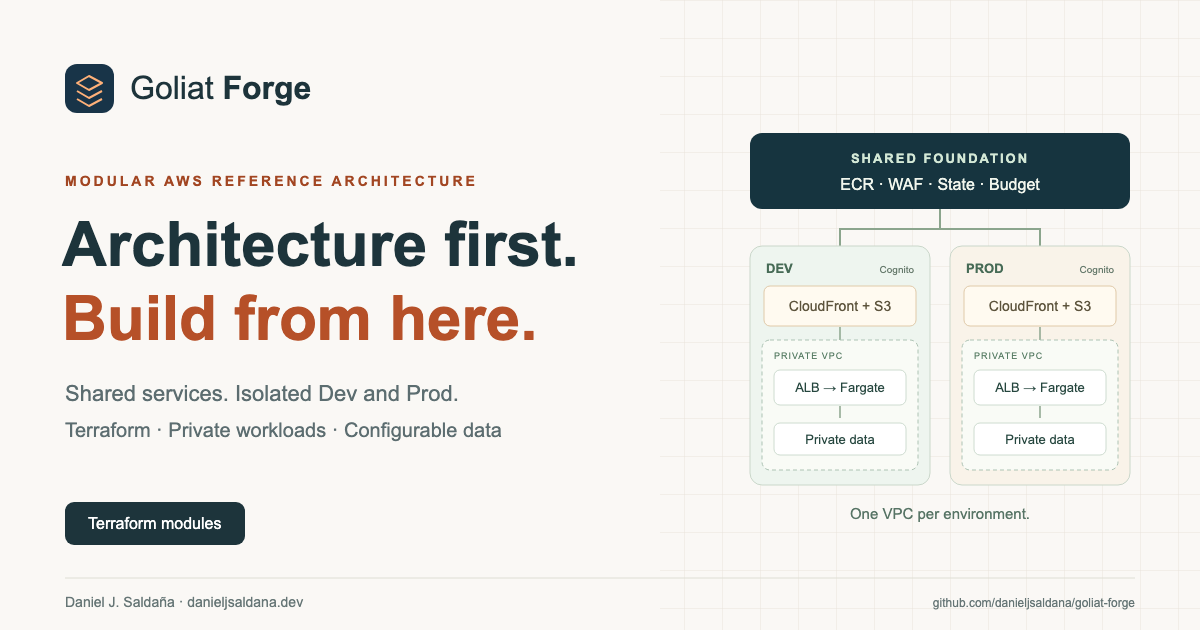
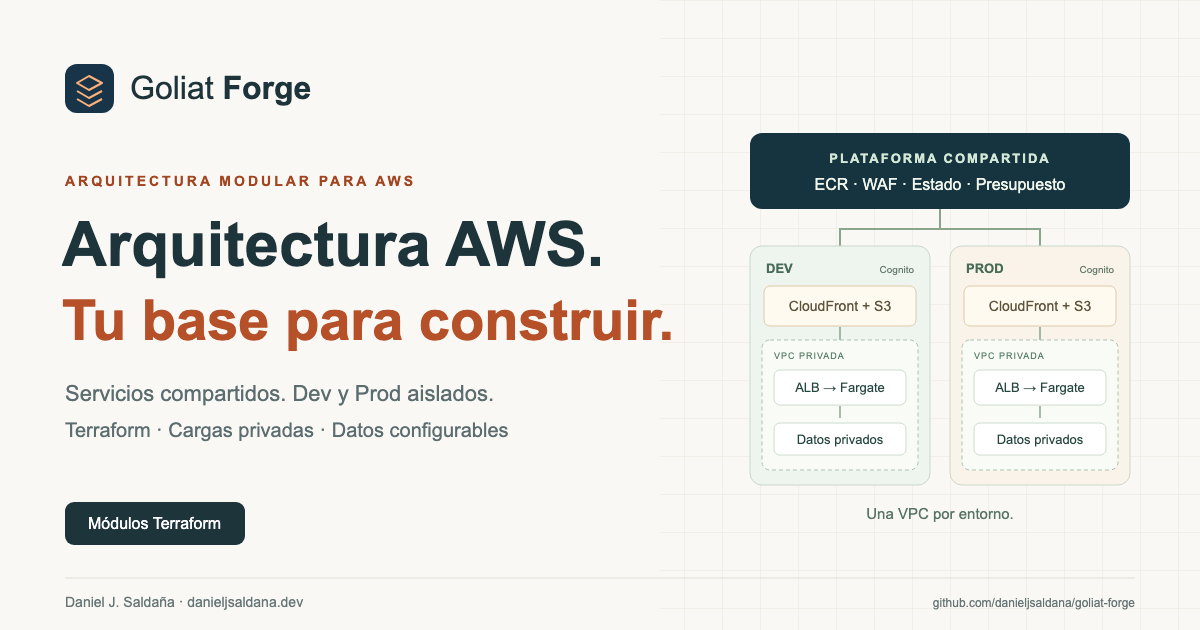
Localize the primary social preview in Spanish

diff --git a/site/index.htm b/site/index.htm
@@ -5,28 +5,28 @@
 <meta name="viewport" content="width=device-width,initial-scale=1">
 <meta name="theme-color" content="#faf8f5">
 <title>Goliat Forge · Arquitectura modular para AWS</title>
-<meta name="description" content="Arquitectura AWS modular con Terraform, plataforma compartida, Dev y Prod aislados, cargas privadas y motores de datos configurables.">
+<meta name="description" content="Arquitectura modular para AWS con Terraform: servicios compartidos, Dev y Prod aislados, API privada y bases de datos configurables.">
 <meta name="author" content="Daniel J. Saldaña">
 <link rel="author" href="https://danieljsaldana.dev/">
 <link rel="canonical" href="https://danieljsaldana.github.io/goliat-forge/">
 <meta property="og:type" content="website">
 <meta property="og:site_name" content="Goliat Forge">
 <meta property="og:title" content="Goliat Forge · Arquitectura modular para AWS">
-<meta property="og:description" content="Arquitectura AWS modular con Terraform, plataforma compartida, Dev y Prod aislados, cargas privadas y motores de datos configurables.">
+<meta property="og:description" content="Arquitectura modular para AWS con Terraform: servicios compartidos, Dev y Prod aislados, API privada y bases de datos configurables.">
 <meta property="og:url" content="https://danieljsaldana.github.io/goliat-forge/">
 <meta property="og:locale" content="es_ES">
 <meta property="og:locale:alternate" content="en_US">
-<meta property="og:image" content="https://danieljsaldana.github.io/goliat-forge/assets/social-card.png?v=c8e2209e2b5c">
-<meta property="og:image:secure_url" content="https://danieljsaldana.github.io/goliat-forge/assets/social-card.png?v=c8e2209e2b5c">
+<meta property="og:image" content="https://danieljsaldana.github.io/goliat-forge/assets/social-card.png?v=997cc2225495">
+<meta property="og:image:secure_url" content="https://danieljsaldana.github.io/goliat-forge/assets/social-card.png?v=997cc2225495">
 <meta property="og:image:type" content="image/png">
 <meta property="og:image:width" content="1200">
 <meta property="og:image:height" content="630">
-<meta property="og:image:alt" content="Goliat Forge: plataforma AWS compartida y arquitecturas Dev y Prod aisladas">
+<meta property="og:image:alt" content="Diagrama de Goliat Forge: plataforma AWS compartida y entornos Dev y Prod aislados con API y datos privados.">
 <meta name="twitter:card" content="summary_large_image">
 <meta name="twitter:title" content="Goliat Forge · Arquitectura modular para AWS">
-<meta name="twitter:description" content="Arquitectura AWS modular con Terraform, plataforma compartida, Dev y Prod aislados, cargas privadas y motores de datos configurables.">
-<meta name="twitter:image" content="https://danieljsaldana.github.io/goliat-forge/assets/social-card.png?v=c8e2209e2b5c">
-<meta name="twitter:image:alt" content="Goliat Forge: plataforma AWS compartida y arquitecturas Dev y Prod aisladas">
+<meta name="twitter:description" content="Arquitectura modular para AWS con Terraform: servicios compartidos, Dev y Prod aislados, API privada y bases de datos configurables.">
+<meta name="twitter:image" content="https://danieljsaldana.github.io/goliat-forge/assets/social-card.png?v=997cc2225495">
+<meta name="twitter:image:alt" content="Diagrama de Goliat Forge: plataforma AWS compartida y entornos Dev y Prod aislados con API y datos privados.">
 <link rel="icon" href="assets/favicon.svg" type="image/svg+xml">
 <link rel="stylesheet" href="styles.css">
 <script type="module" src="app.js"></script>

diff --git a/site/index.html b/site/index.html
@@ -5,28 +5,28 @@
 <meta name="viewport" content="width=device-width,initial-scale=1">
 <meta name="theme-color" content="#faf8f5">
 <title>Goliat Forge · Arquitectura modular para AWS</title>
-<meta name="description" content="Arquitectura AWS modular con Terraform, plataforma compartida, Dev y Prod aislados, cargas privadas y motores de datos configurables.">
+<meta name="description" content="Arquitectura modular para AWS con Terraform: servicios compartidos, Dev y Prod aislados, API privada y bases de datos configurables.">
 <meta name="author" content="Daniel J. Saldaña">
 <link rel="author" href="https://danieljsaldana.dev/">
 <link rel="canonical" href="https://danieljsaldana.github.io/goliat-forge/">
 <meta property="og:type" content="website">
 <meta property="og:site_name" content="Goliat Forge">
 <meta property="og:title" content="Goliat Forge · Arquitectura modular para AWS">
-<meta property="og:description" content="Arquitectura AWS modular con Terraform, plataforma compartida, Dev y Prod aislados, cargas privadas y motores de datos configurables.">
+<meta property="og:description" content="Arquitectura modular para AWS con Terraform: servicios compartidos, Dev y Prod aislados, API privada y bases de datos configurables.">
 <meta property="og:url" content="https://danieljsaldana.github.io/goliat-forge/">
 <meta property="og:locale" content="es_ES">
 <meta property="og:locale:alternate" content="en_US">
-<meta property="og:image" content="https://danieljsaldana.github.io/goliat-forge/assets/social-card.png?v=c8e2209e2b5c">
-<meta property="og:image:secure_url" content="https://danieljsaldana.github.io/goliat-forge/assets/social-card.png?v=c8e2209e2b5c">
+<meta property="og:image" content="https://danieljsaldana.github.io/goliat-forge/assets/social-card.png?v=997cc2225495">
+<meta property="og:image:secure_url" content="https://danieljsaldana.github.io/goliat-forge/assets/social-card.png?v=997cc2225495">
 <meta property="og:image:type" content="image/png">
 <meta property="og:image:width" content="1200">
 <meta property="og:image:height" content="630">
-<meta property="og:image:alt" content="Goliat Forge: plataforma AWS compartida y arquitecturas Dev y Prod aisladas">
+<meta property="og:image:alt" content="Diagrama de Goliat Forge: plataforma AWS compartida y entornos Dev y Prod aislados con API y datos privados.">
 <meta name="twitter:card" content="summary_large_image">
 <meta name="twitter:title" content="Goliat Forge · Arquitectura modular para AWS">
-<meta name="twitter:description" content="Arquitectura AWS modular con Terraform, plataforma compartida, Dev y Prod aislados, cargas privadas y motores de datos configurables.">
-<meta name="twitter:image" content="https://danieljsaldana.github.io/goliat-forge/assets/social-card.png?v=c8e2209e2b5c">
-<meta name="twitter:image:alt" content="Goliat Forge: plataforma AWS compartida y arquitecturas Dev y Prod aisladas">
+<meta name="twitter:description" content="Arquitectura modular para AWS con Terraform: servicios compartidos, Dev y Prod aislados, API privada y bases de datos configurables.">
+<meta name="twitter:image" content="https://danieljsaldana.github.io/goliat-forge/assets/social-card.png?v=997cc2225495">
+<meta name="twitter:image:alt" content="Diagrama de Goliat Forge: plataforma AWS compartida y entornos Dev y Prod aislados con API y datos privados.">
 <link rel="icon" href="assets/favicon.svg" type="image/svg+xml">
 <link rel="stylesheet" href="styles.css">
 <script type="module" src="app.js"></script>

diff --git a/scripts/build_site.py b/scripts/build_site.py
@@ -156,7 +156,7 @@ def build():
         page=translate_html(html,language)
         title='Goliat Forge · Modular AWS architecture' if language=='en' else 'Goliat Forge · Arquitectura modular para AWS'
         page=re.sub(r'<title>.*?</title>','<title>'+title+'</title>',page)
-        description=('A modular AWS reference architecture with Terraform, shared platform services, isolated Dev and Prod, private workloads and configurable data engines.' if language=='en' else 'Arquitectura AWS modular con Terraform, plataforma compartida, Dev y Prod aislados, cargas privadas y motores de datos configurables.')
+        description=('A modular AWS reference architecture with Terraform, shared platform services, isolated Dev and Prod, private workloads and configurable data engines.' if language=='en' else 'Arquitectura modular para AWS con Terraform: servicios compartidos, Dev y Prod aislados, API privada y bases de datos configurables.')
         def meta(key,value):
             nonlocal page
             pattern=r'(<meta (?:name|property)="'+re.escape(key)+r'" content=")[^"]*(")'
@@ -165,7 +165,7 @@ def build():
         for key in ['description','og:description','twitter:description']:meta(key,description)
         meta('og:locale','en_US' if language=='en' else 'es_ES')
         meta('og:locale:alternate','es_ES' if language=='en' else 'en_US')
-        image_alt='Goliat Forge: shared AWS foundation and isolated Dev and Prod architectures' if language=='en' else 'Goliat Forge: plataforma AWS compartida y arquitecturas Dev y Prod aisladas'
+        image_alt='Goliat Forge: shared AWS foundation and isolated Dev and Prod architectures' if language=='en' else 'Diagrama de Goliat Forge: plataforma AWS compartida y entornos Dev y Prod aislados con API y datos privados.'
         for key in ['og:image:alt','twitter:image:alt']:meta(key,image_alt)
         if product['site_url']:
             canonical=product['site_url'].rstrip('/')+('/en/' if language=='en' else '/')
